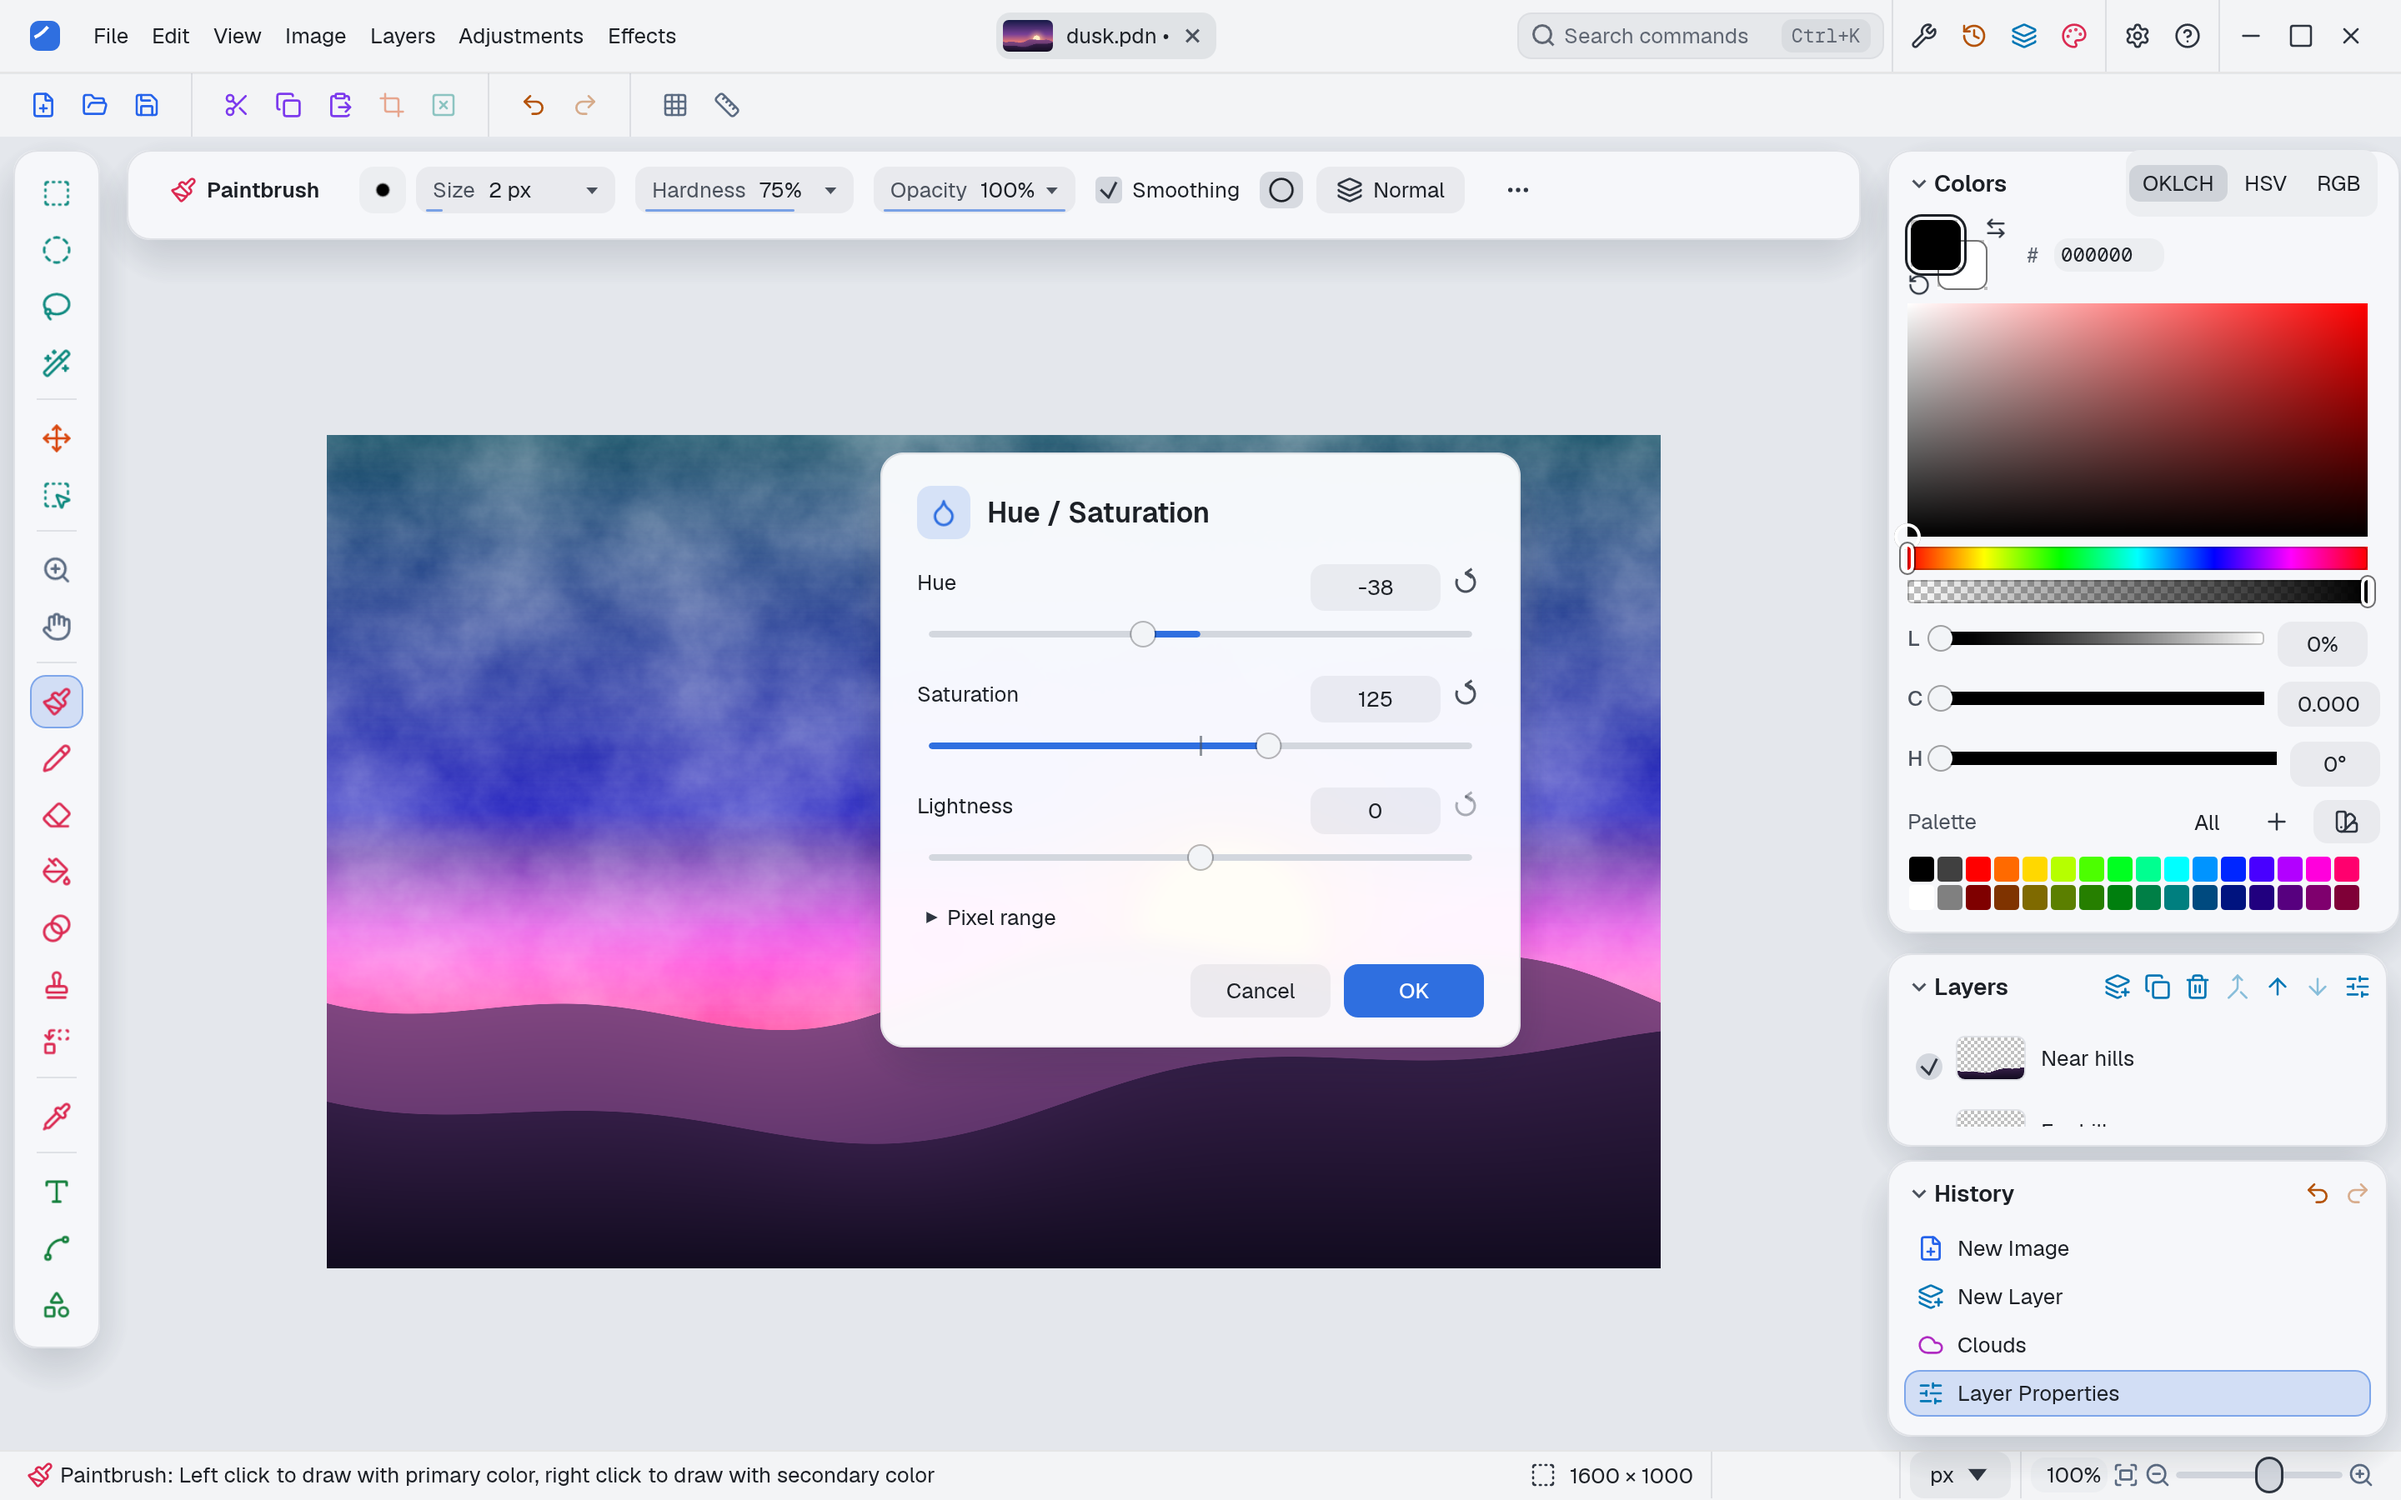
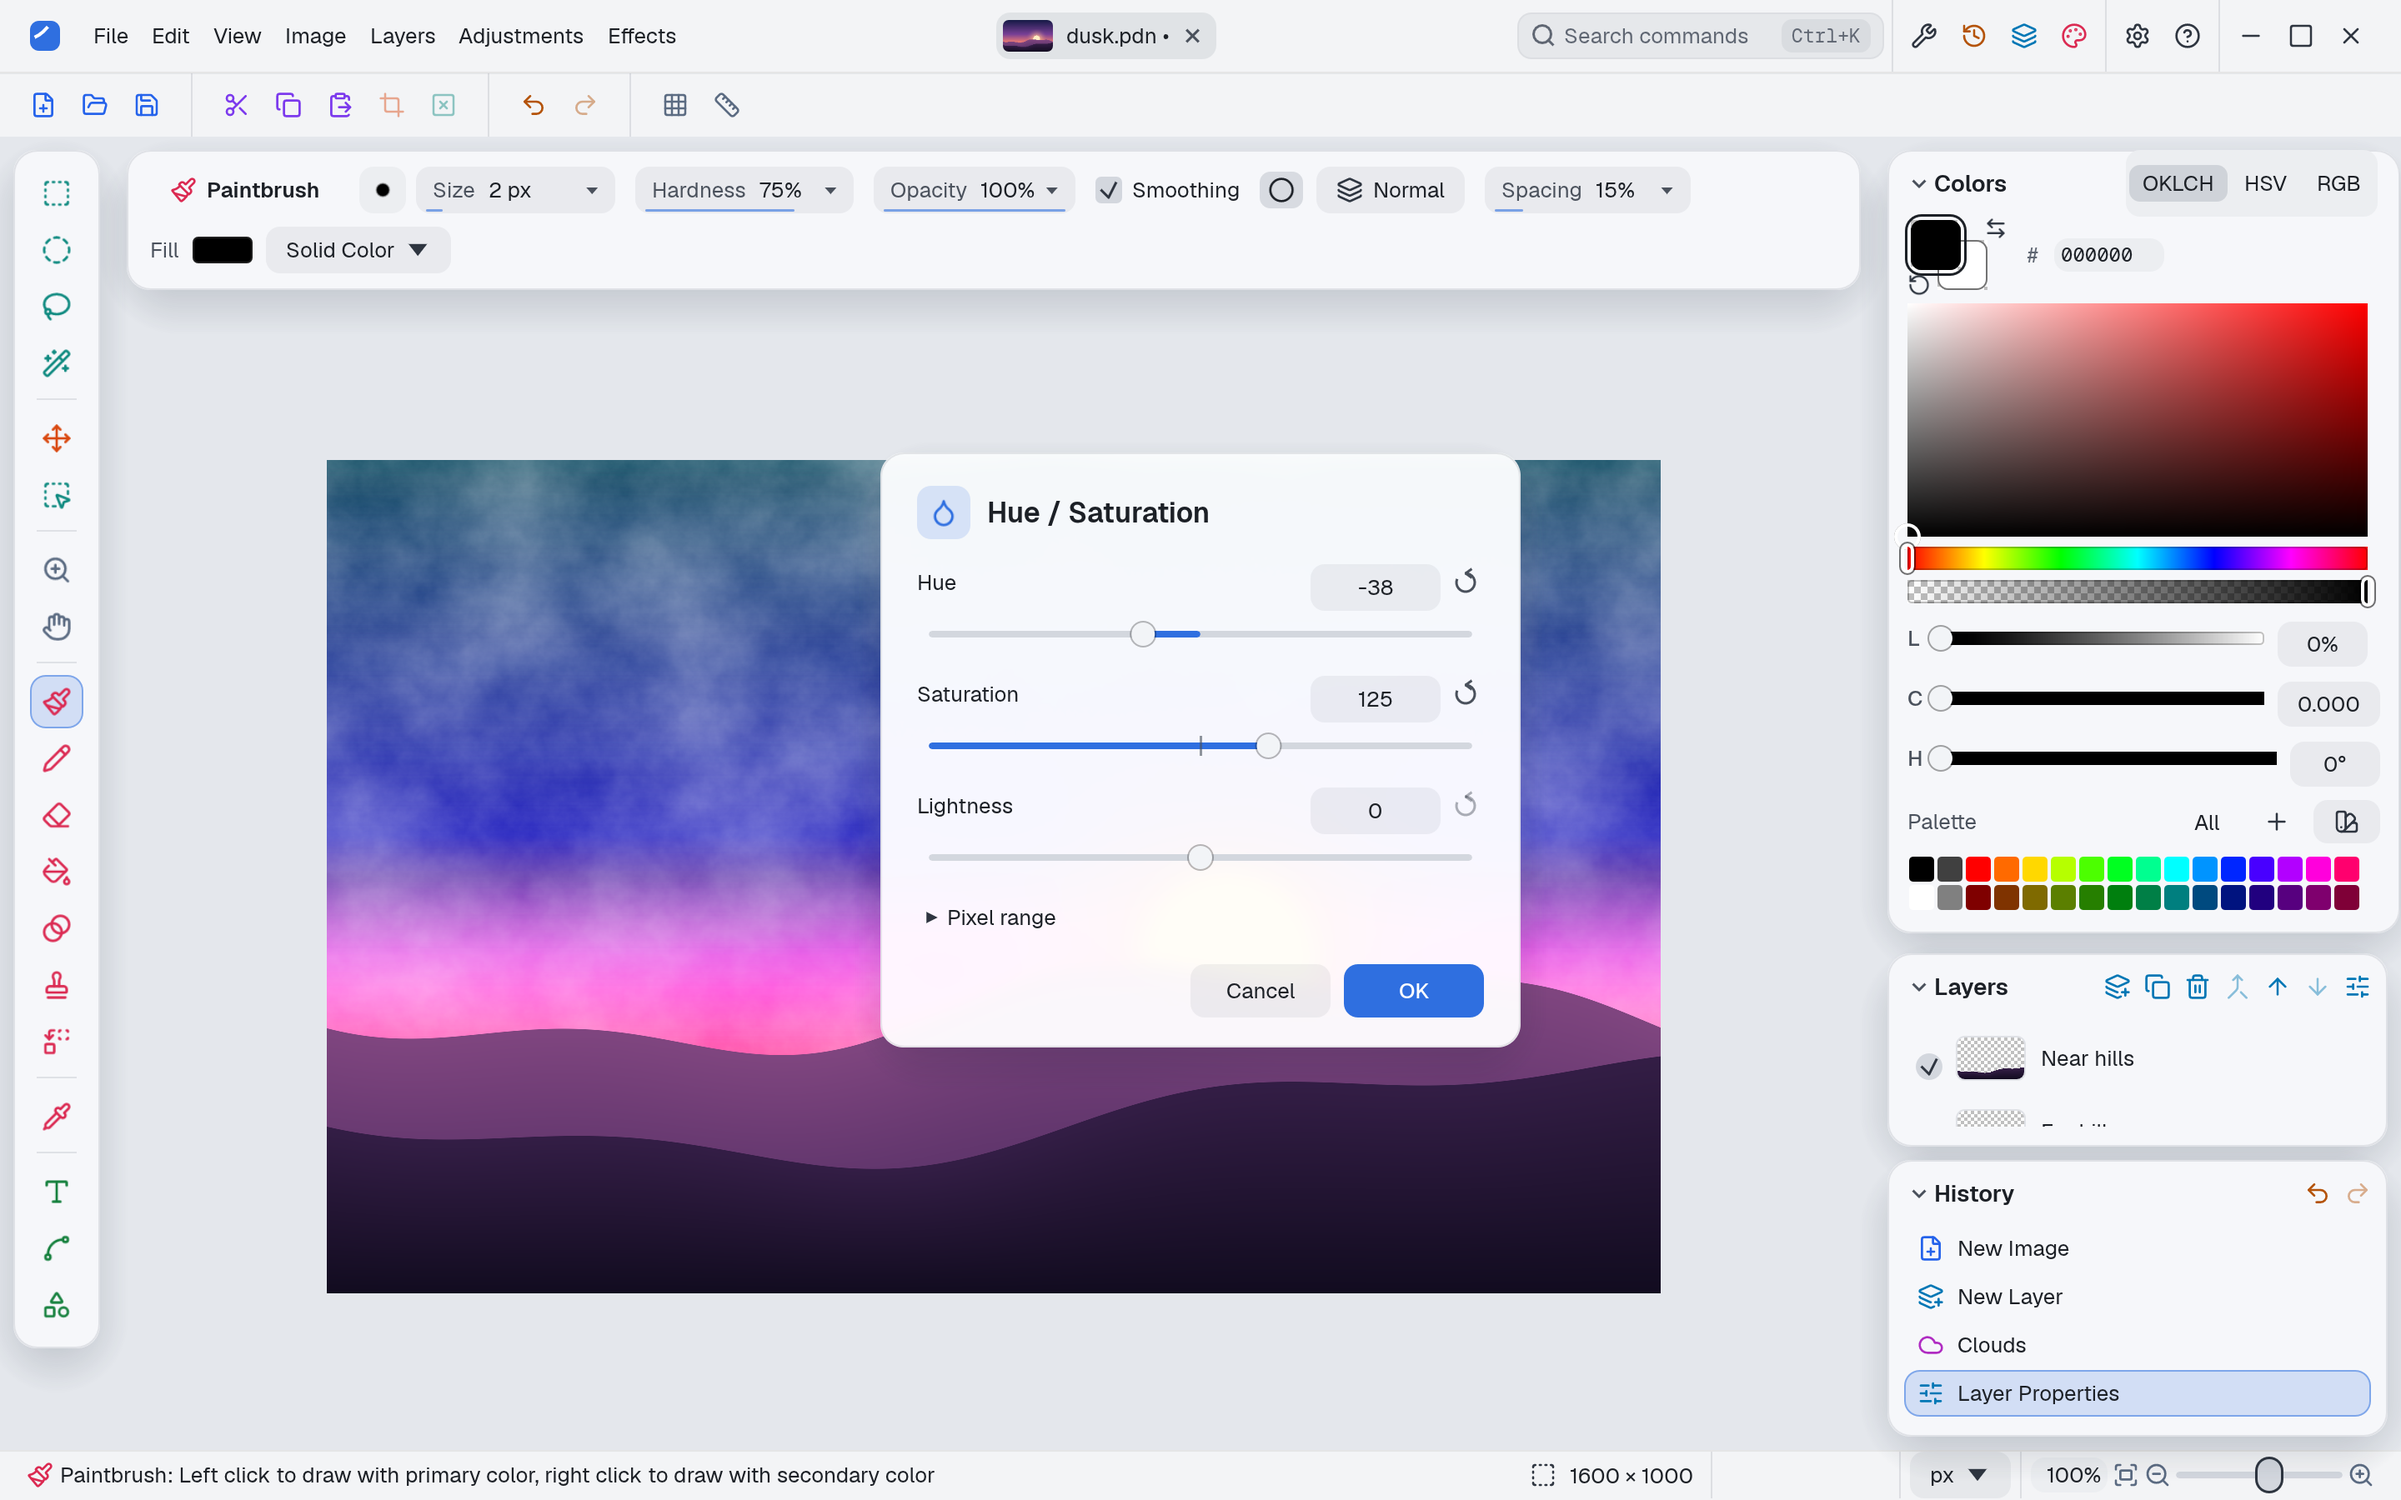
Options row: no "…" menu; its options sit in the row
A dropdown inside the "…" menu closed the menu as it opened, so the Paintbrush's Fill
couldn't be changed. Spacing, Fill, colour comparison, sampling, selection edges and text
size units are in the options row now.

Claude-Session: https://claude.ai/code/session_01VVPyjhAsvo164ZwKujqknQ

diff --git a/apps/paintnotnet/src/toolbar.rs b/apps/paintnotnet/src/toolbar.rs
@@ -210,7 +210,7 @@ fn options(
     icons: &Icons,
     palette: &Palette,
 ) {
-    use crate::controls::{brush_size, more, opacity, percent};
+    use crate::controls::{brush_size, opacity, percent};
     use ToolKind::*;
     match tool {
         RectangleSelect | LassoSelect | EllipseSelect => {
@@ -223,7 +223,9 @@ fn options(
                 });
             }
             g(ui, "feather", |ui| feather(ui, s, state, palette));
-            more(ui, icons, |ui| selection_quality(ui, s, icons, palette));
+            g(ui, "selection edges", |ui| {
+                selection_quality(ui, s, icons, palette)
+            });
         }
         MagicWand => {
             g(ui, "selection mode", |ui| {
@@ -232,10 +234,10 @@ fn options(
             g(ui, "flood mode", |ui| flood_mode(ui, s, icons, palette));
             percent(ui, "Tolerance", &mut s.tolerance, palette);
             g(ui, "feather", |ui| feather(ui, s, state, palette));
-            more(ui, icons, |ui| {
-                tolerance_space(ui, s, icons, palette);
-                sampling(ui, s, icons, palette);
-                selection_quality(ui, s, icons, palette);
+            g(ui, "compare", |ui| tolerance_space(ui, s, icons, palette));
+            g(ui, "sampling", |ui| sampling(ui, s, icons, palette));
+            g(ui, "selection edges", |ui| {
+                selection_quality(ui, s, icons, palette)
             });
         }
         MoveSelectedPixels => {
@@ -257,7 +259,9 @@ fn options(
                     palette,
                 );
             });
-            more(ui, icons, |ui| selection_quality(ui, s, icons, palette));
+            g(ui, "selection edges", |ui| {
+                selection_quality(ui, s, icons, palette)
+            });
         }
         MoveSelection | Zoom | Pan => {}
         PaintBucket => {
@@ -266,10 +270,8 @@ fn options(
             g(ui, "fill", |ui| fill_style(ui, s, palette));
             opacity(ui, s, palette);
             g(ui, "rendering", |ui| rendering(ui, s, icons, palette, true));
-            more(ui, icons, |ui| {
-                tolerance_space(ui, s, icons, palette);
-                sampling(ui, s, icons, palette);
-            });
+            g(ui, "compare", |ui| tolerance_space(ui, s, icons, palette));
+            g(ui, "sampling", |ui| sampling(ui, s, icons, palette));
         }
         Gradient => {
             g(ui, "gradient type", |ui| {
@@ -371,12 +373,10 @@ fn options(
                 rendering(ui, s, icons, palette, tool != Eraser)
             });
             if tool != CloneStamp {
-                more(ui, icons, |ui| {
-                    percent(ui, "Spacing", &mut s.spacing, palette);
-                    if tool == Paintbrush {
-                        ui.horizontal(|ui| fill_style(ui, s, palette));
-                    }
-                });
+                percent(ui, "Spacing", &mut s.spacing, palette);
+                if tool == Paintbrush {
+                    g(ui, "fill", |ui| fill_style(ui, s, palette));
+                }
             }
         }
         Pencil => {
@@ -499,9 +499,9 @@ fn options(
             });
             opacity(ui, s, palette);
             g(ui, "rendering", |ui| rendering(ui, s, icons, palette, true));
-            more(ui, icons, |ui| {
+            g(ui, "size units", |ui| {
                 ui.horizontal(|ui| {
-                    label(ui, "Size units", palette);
+                    label(ui, "Units", palette);
                     crate::controls::segmented(
                         ui,
                         icons,
@@ -605,9 +605,7 @@ fn options(
                 line_style(ui, s, tool == LineCurve, palette)
             });
             g(ui, "rendering", |ui| rendering(ui, s, icons, palette, true));
-            more(ui, icons, |ui| {
-                ui.horizontal(|ui| fill_style(ui, s, palette));
-            });
+            g(ui, "fill", |ui| fill_style(ui, s, palette));
         }
     }
 }
@@ -755,7 +753,7 @@ fn feather(ui: &mut egui::Ui, s: &mut ToolSettings, state: &mut Row2State, palet
 
 fn selection_quality(ui: &mut egui::Ui, s: &mut ToolSettings, icons: &Icons, palette: &Palette) {
     ui.horizontal(|ui| {
-        label(ui, "Selection edges", palette);
+        label(ui, "Edges", palette);
         crate::controls::segmented(
             ui,
             icons,
@@ -801,7 +799,7 @@ fn flood_mode(ui: &mut egui::Ui, s: &mut ToolSettings, icons: &Icons, palette: &
 /// Compare colours as they look (OKLab) or as paint.net does (RGB).
 fn tolerance_space(ui: &mut egui::Ui, s: &mut ToolSettings, icons: &Icons, palette: &Palette) {
     ui.horizontal(|ui| {
-        label(ui, "Compare colors", palette);
+        label(ui, "Compare", palette);
         crate::controls::segmented(
             ui,
             icons,

diff --git a/apps/paintnotnet/tests/ui/paint_ui.rs b/apps/paintnotnet/tests/ui/paint_ui.rs
@@ -170,3 +170,21 @@ fn alt_right_drag_resizes_the_brush_without_painting() {
     assert_eq!(s.hardness, hardness + 20);
     assert_eq!(history_names(&h), history, "nothing painted");
 }
+
+/// The Paintbrush's Fill is in the options row (it was behind "…", where opening the dropdown
+/// closed the menu around it): picking a pattern sticks.
+#[test]
+fn paintbrush_fill_picks_a_pattern() {
+    use egui_kittest::kittest::Queryable;
+    let mut h = harness();
+    h.state_mut().set_tool(pnn_tools::ToolKind::Paintbrush);
+    h.step();
+    h.step();
+    h.get_by_value("Solid Color").click();
+    h.step();
+    h.step();
+    h.get_by_label("Forward Diagonal").click();
+    h.step();
+    h.step();
+    assert_eq!(h.state().settings().fill, pnn_tools::FillStyle::Hatch(2));
+}

diff --git a/apps/paintnotnet/src/controls.rs b/apps/paintnotnet/src/controls.rs
@@ -469,17 +469,3 @@ pub fn cap_sample(painter: &egui::Painter, rect: Rect, cap: pnn_tools::LineCap, 
         }
     }
 }
-
-/// "⋯" opening a popover with the tool's less used options.
-pub fn more(ui: &mut egui::Ui, icons: &crate::icons::Icons, add: impl FnOnce(&mut egui::Ui)) {
-    egui::containers::menu::MenuButton::from_button(
-        egui::Button::image(icons.image(crate::icons::Icon::More)).frame_when_inactive(false),
-    )
-    .ui(ui, |ui| {
-        ui.set_min_width(220.0);
-        ui.spacing_mut().item_spacing.y = 8.0;
-        add(ui);
-    })
-    .0
-    .on_hover_text("More options");
-}

diff --git a/ROADMAP.md b/ROADMAP.md
@@ -1005,6 +1005,11 @@ this just a great modern paint.net replacement for linux."
       shade on the dark theme and a deeper one on the light; option toggles, window buttons and the like keep the
       theme's icon colour. Used by the command bar, tool rail, menus, Layers and History buttons, history entries
       and the KDE global menu's PNGs. Reviewed in both themes (README scenes, gallery menus)
+- [x] **No "…" menu** (user: "why are these in a sub menu? … clicking on solid colour just closes the existing
+      dropdown"): a dropdown inside the "…" menu closed the menu when opened. Its contents (Spacing and Fill for the
+      brushes, Fill for Shapes and Line / Curve, colour comparison and sampling for Magic Wand and Paint Bucket,
+      selection edges, text size units) are in the options row now. At 1440 pt the busiest tools take two lines,
+      at 1100 pt three. Test: the Paintbrush's Fill picks a pattern
 
 ---
 
